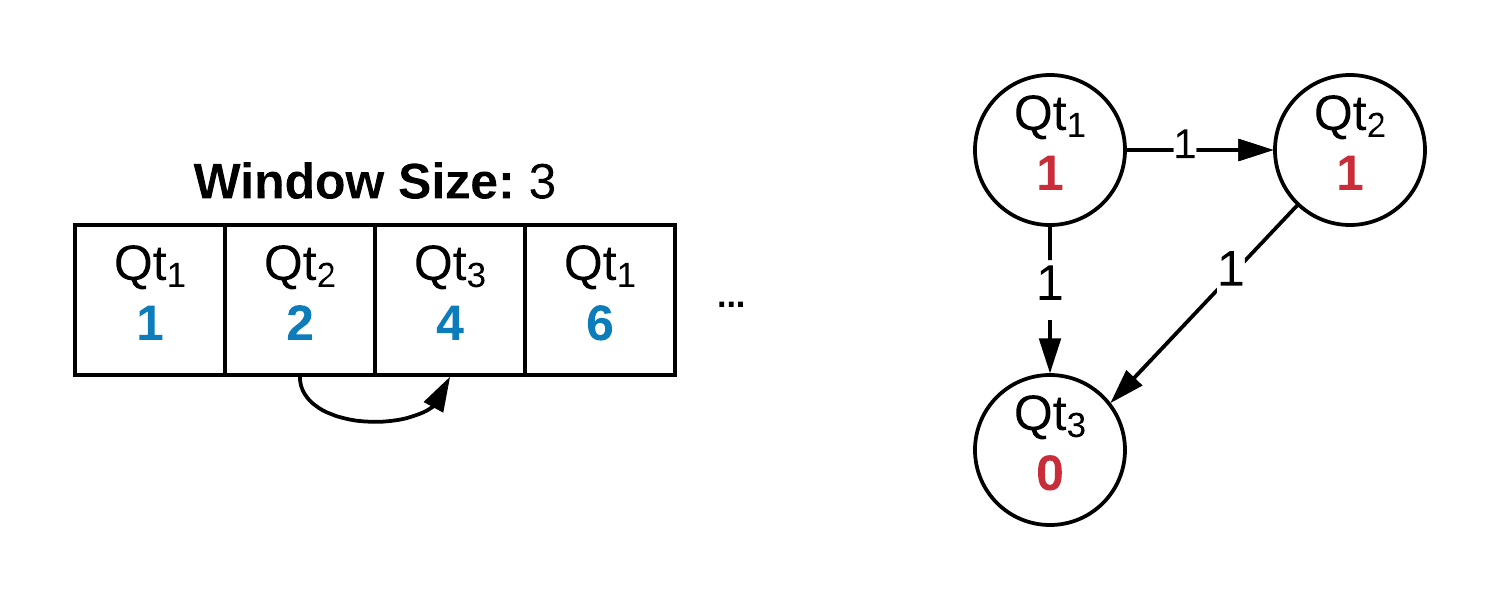
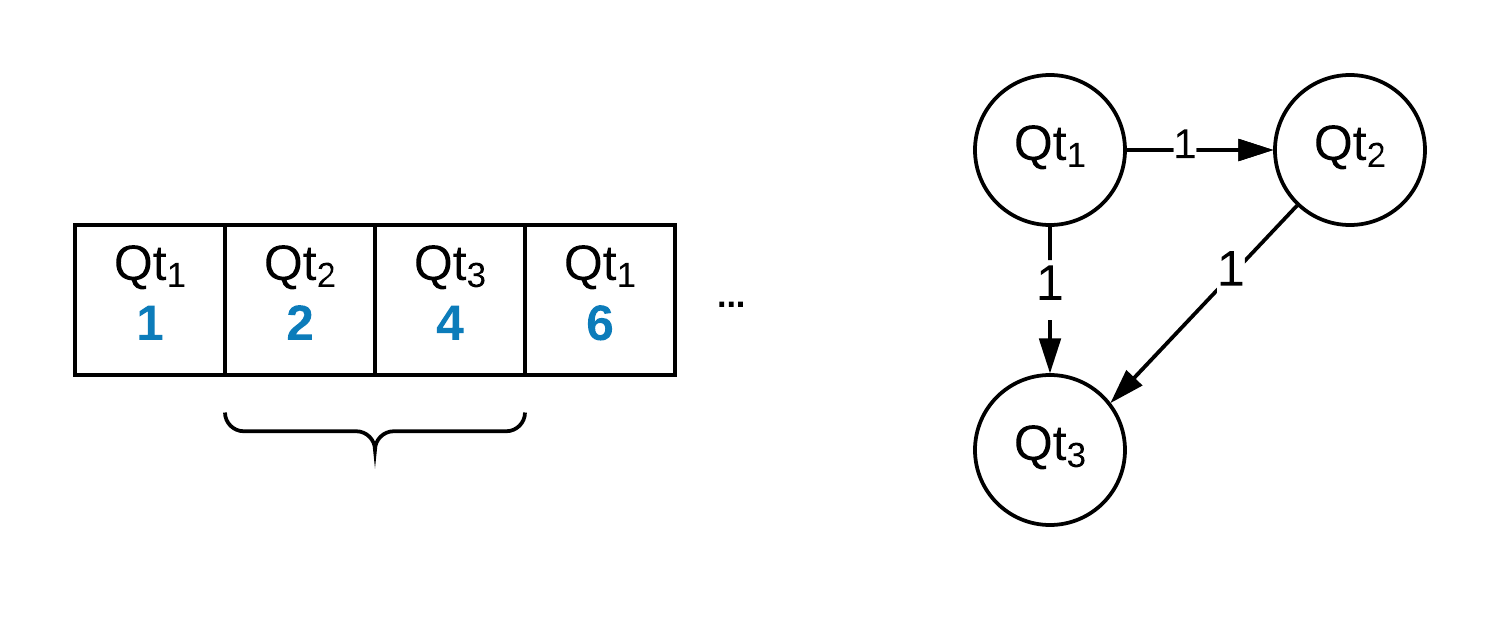
Apollo slides post second dry run

Changed region(s): [[0.0307, 0.27, 0.46, 0.72], [0.644, 0.09, 0.9507, 0.9]]

diff --git a/demo.tex b/demo.tex
@@ -34,9 +34,9 @@
 \begin{document}
 
 \begin{frame}{}
-\vspace*{-0.2cm}
-\hspace*{-1.07cm}
-\includegraphics[keepaspectratio=true,width=1.03\paperwidth]{title_slide}
+\vspace*{-0.1cm}
+\hspace*{-1.1cm}
+\includegraphics[keepaspectratio=true,width=1.01\paperwidth]{title_slide}
 \end{frame}
 
 \begin{frame}{Simple Web Application Architecture}
@@ -253,9 +253,16 @@ O_C_ID = (*@ \cfbox{red}{@C\_ID} @*)
 
 \begin{frame}[fragile]{Apollo Overview}
     \begin{figure}
-        \includegraphics[scale=0.18]{apollo_overview_simplified}
+        \includegraphics[scale=0.16]{apollo_overview_simplified}
     \end{figure}
 \end{frame}
+
+\begin{frame}[fragile]{Apollo Overview}
+    \begin{figure}
+        \includegraphics[scale=0.16]{apollo_overview_simplified_2}
+    \end{figure}
+\end{frame}
+
 
 
 
@@ -360,7 +367,7 @@ O\_C\_ID = \cfbox{red}{\textbf{?}}
     \end{figure}
     \visible<2->{
         Probability of seeing $Qt_{2}$ within sliding window after we've seen $Qt_{1}$:\\
-        $P(Qt_{2}|Qt_{1};T\leq\Delta t) = \frac{\textrm{times } Qt_{2} \textrm{ executed within window of } Qt_{1}}{\textrm{times } Qt_{1} \textrm{ executed}} =\frac{75}{75} = 1$\\
+        $P(Qt_{2}|Qt_{1};T\leq\Delta t) = \frac{75}{75} = 1$\\
     }
     \visible<3->{
         $P(Qt_{1}|Qt_{3};T\leq\Delta t) = \frac{10}{50} = \frac{1}{5}$
@@ -416,42 +423,56 @@ O\_C\_ID = \cfbox{red}{\textbf{?}}
     \end{figure}
 \end{frame}
 
-\begin{frame}[fragile]{Core Prediction Routine}
+\begin{frame}[fragile]{Prediction Routine}
     \begin{figure}
         \hspace*{-1cm}
         \includegraphics[scale=0.22]{apollo_cpr_2}
     \end{figure}
 \end{frame}
 
-\begin{frame}[fragile]{Core Prediction Routine}
+\begin{frame}[fragile]{Prediction Routine}
     \begin{figure}
         \hspace*{-1cm}
         \includegraphics[scale=0.22]{apollo_cpr_3}
     \end{figure}
 \end{frame}
 
-\begin{frame}[fragile]{Core Prediction Routine}
+\begin{frame}[fragile]{Prediction Routine}
     \begin{figure}
         \hspace*{-1cm}
         \includegraphics[scale=0.22]{apollo_cpr_4}
     \end{figure}
 \end{frame}
 
-\begin{frame}[fragile]{Core Prediction Routine}
+\begin{frame}[fragile]{Prediction Routine}
     \begin{figure}
         \hspace*{-1cm}
         \includegraphics[scale=0.22]{apollo_cpr_5}
     \end{figure}
 \end{frame}
 
-\begin{frame}[fragile]{Core Prediction Routine}
+\begin{frame}[fragile]{Prediction Routine}
     \begin{figure}
         \hspace*{-1cm}
-        \includegraphics[scale=0.22]{apollo_cpr}
+        \includegraphics[scale=0.22]{apollo_cpr_6}
     \end{figure}
 \end{frame}
 
-\section{Invalidation}
+\begin{frame}[fragile]{Prediction Routine}
+    \begin{figure}
+        \hspace*{-1cm}
+        \includegraphics[scale=0.22]{apollo_cpr_7}
+    \end{figure}
+\end{frame}
+
+\begin{frame}[fragile]{Prediction Routine}
+    \begin{figure}
+        \hspace*{-1cm}
+        \includegraphics[scale=0.22]{apollo_cpr_8}
+    \end{figure}
+\end{frame}
+
+\section{Cache Management}
 
 \begin{frame}[fragile]{Client-Centric Caching}
     \begin{figure}
@@ -563,10 +584,10 @@ O\_C\_ID = \cfbox{red}{\textbf{?}}
 \end{frame}
 
 \begin{frame}[fragile]{Predictive Caching \emph{Works}}
-Broad conclusions
-\begin{centering}
-Questions?
-\end{centering}
+    \begin{itemize}
+        \item{\alert{Online learning} enables workload pattern discovery and adapts to client behaviour changes}
+        \item{\alert{Predictive caching} is an effective tool to reduce application latency}
+    \end{itemize}
 \end{frame}
 
 \begin{frame}[fragile]{Multiple Apollo Instances}
